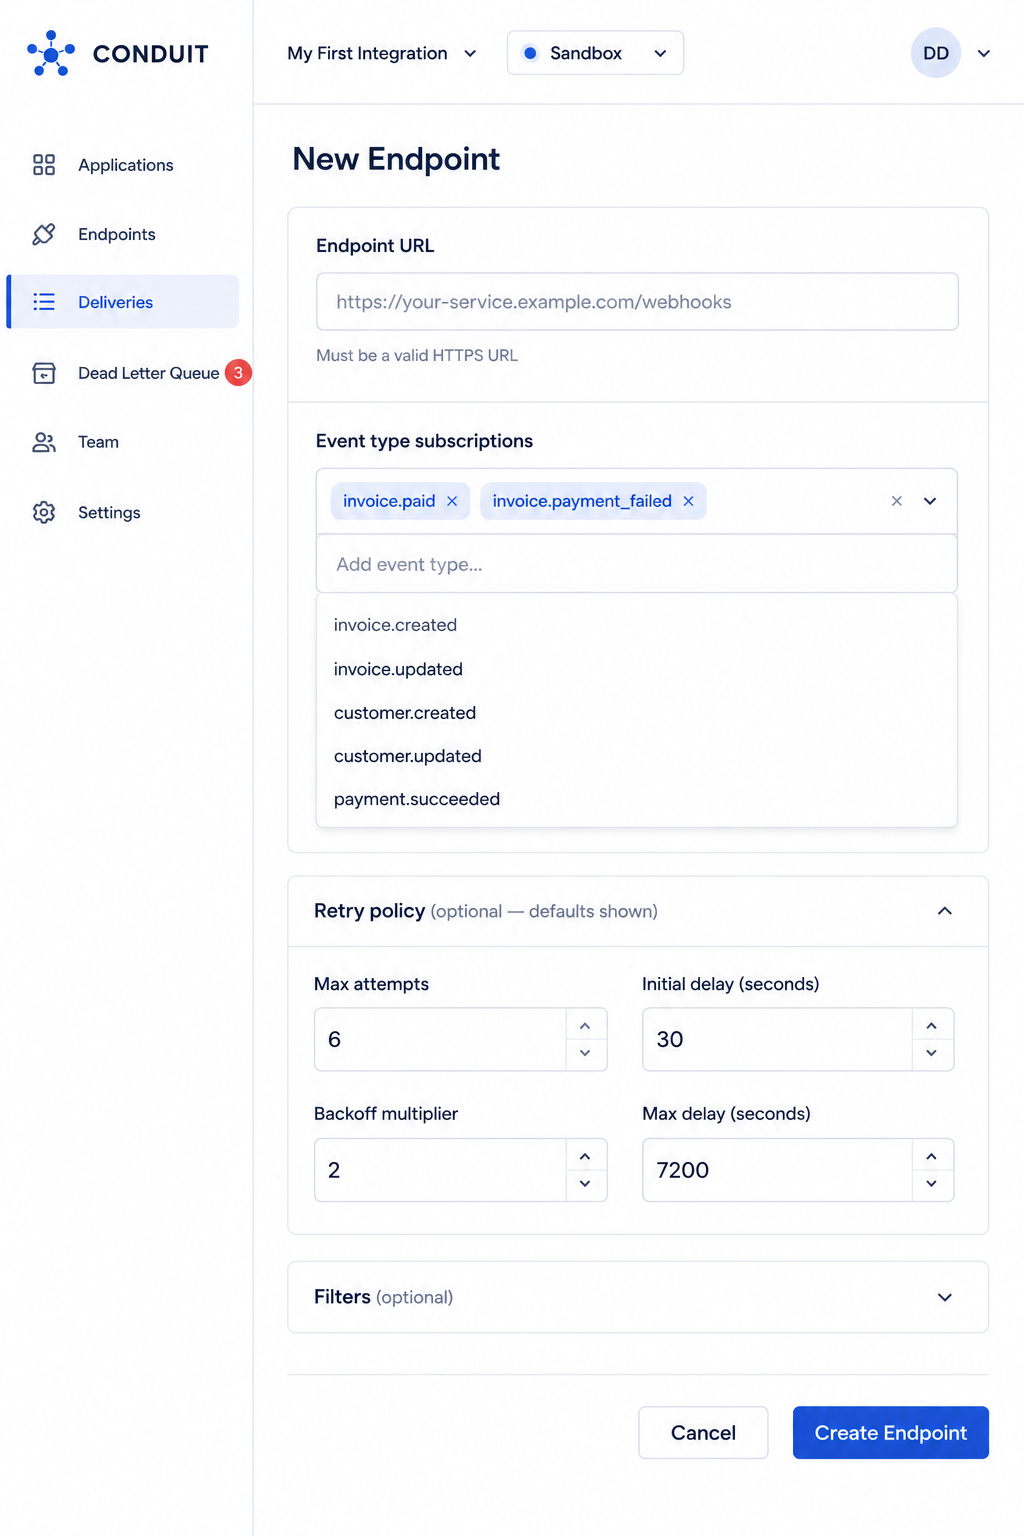
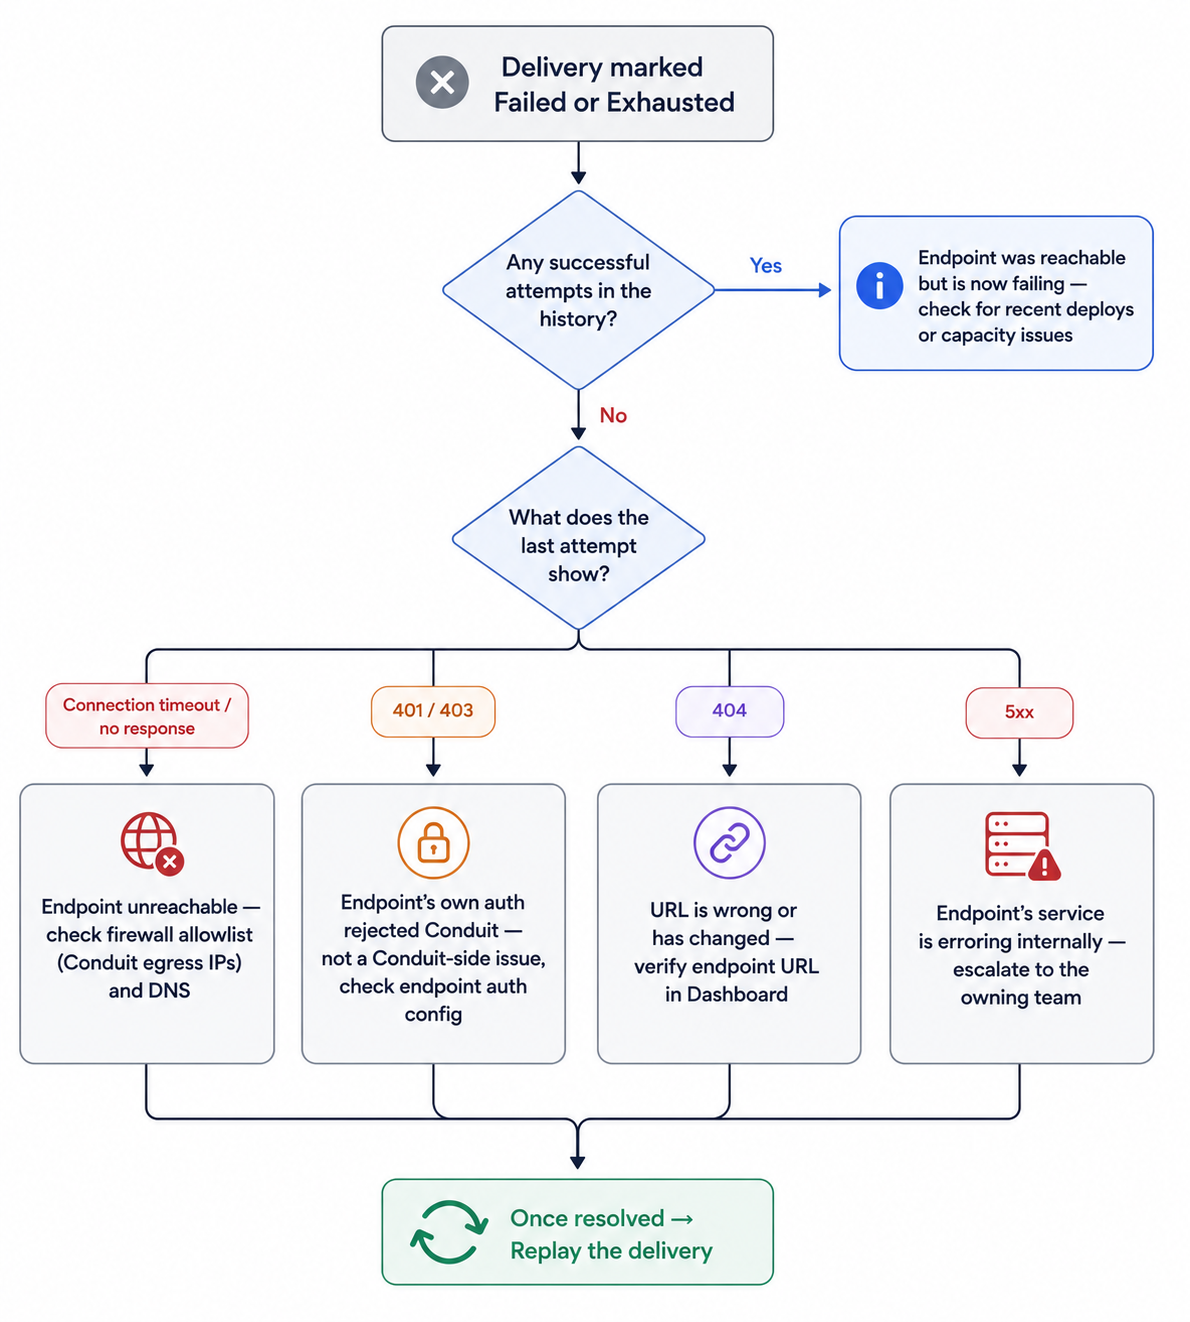
GitBook: Export content from Conduit Docs

diff --git a/home/conduit-docs/guides/dashboard-and-admin-guide.md b/home/conduit-docs/guides/dashboard-and-admin-guide.md
@@ -47,7 +47,7 @@ Endpoint list view shows, per endpoint: URL, subscribed event types (as chips), 
 
 Creating an endpoint: Endpoints → New Endpoint opens a form for URL, event type subscriptions (multi-select), and optional retry policy overrides (defaults are pre-filled and editable).
 
-<figure><img src="../.gitbook/assets/figure6.png" alt="" width="375"><figcaption></figcaption></figure>
+<figure><img src="../.gitbook/assets/figure8.png" alt="" width="375"><figcaption></figcaption></figure>
 
 **Pausing an endpoint:** From the endpoint's detail page, toggle Status from Active to Paused. The toggle is immediate — no confirmation step, since pausing is non-destructive and reversible (see Guides → Registering and managing endpoints for the behavioral implications of pausing).
 
@@ -76,7 +76,7 @@ The Deliveries screen is the primary tool for answering "did this webhook go thr
 
 This is the core support workflow (Workflow C in the product foundation) — distinguishing _why_ a delivery failed before deciding on a remediation.
 
-<figure><img src="../.gitbook/assets/figure6 (1).png" alt="" width="375"><figcaption></figcaption></figure>
+<figure><img src="../.gitbook/assets/figure6.png" alt="" width="375"><figcaption></figcaption></figure>
 
 **Walking the tree in practice:**
 
@@ -95,7 +95,7 @@ Once the underlying cause has been resolved (§7.5), replay is available directl
 
 **Bulk replay:** From the Dead Letter Queue screen, select multiple entries (e.g., all deliveries that failed during a known outage window) and choose Replay selected. Bulk replay is subject to the same rate limits as individual replay calls (§5.3) and may be queued rather than executed instantaneously for large selections.
 
-<figure><img src="../.gitbook/assets/figure7 (1).png" alt=""><figcaption></figcaption></figure>
+<figure><img src="../.gitbook/assets/figure9.png" alt=""><figcaption></figcaption></figure>
 
 Replay does not reset an endpoint's retry policy or attempt count for future automatic retries — it is a one-time, manually triggered attempt outside the normal retry sequence.
 
